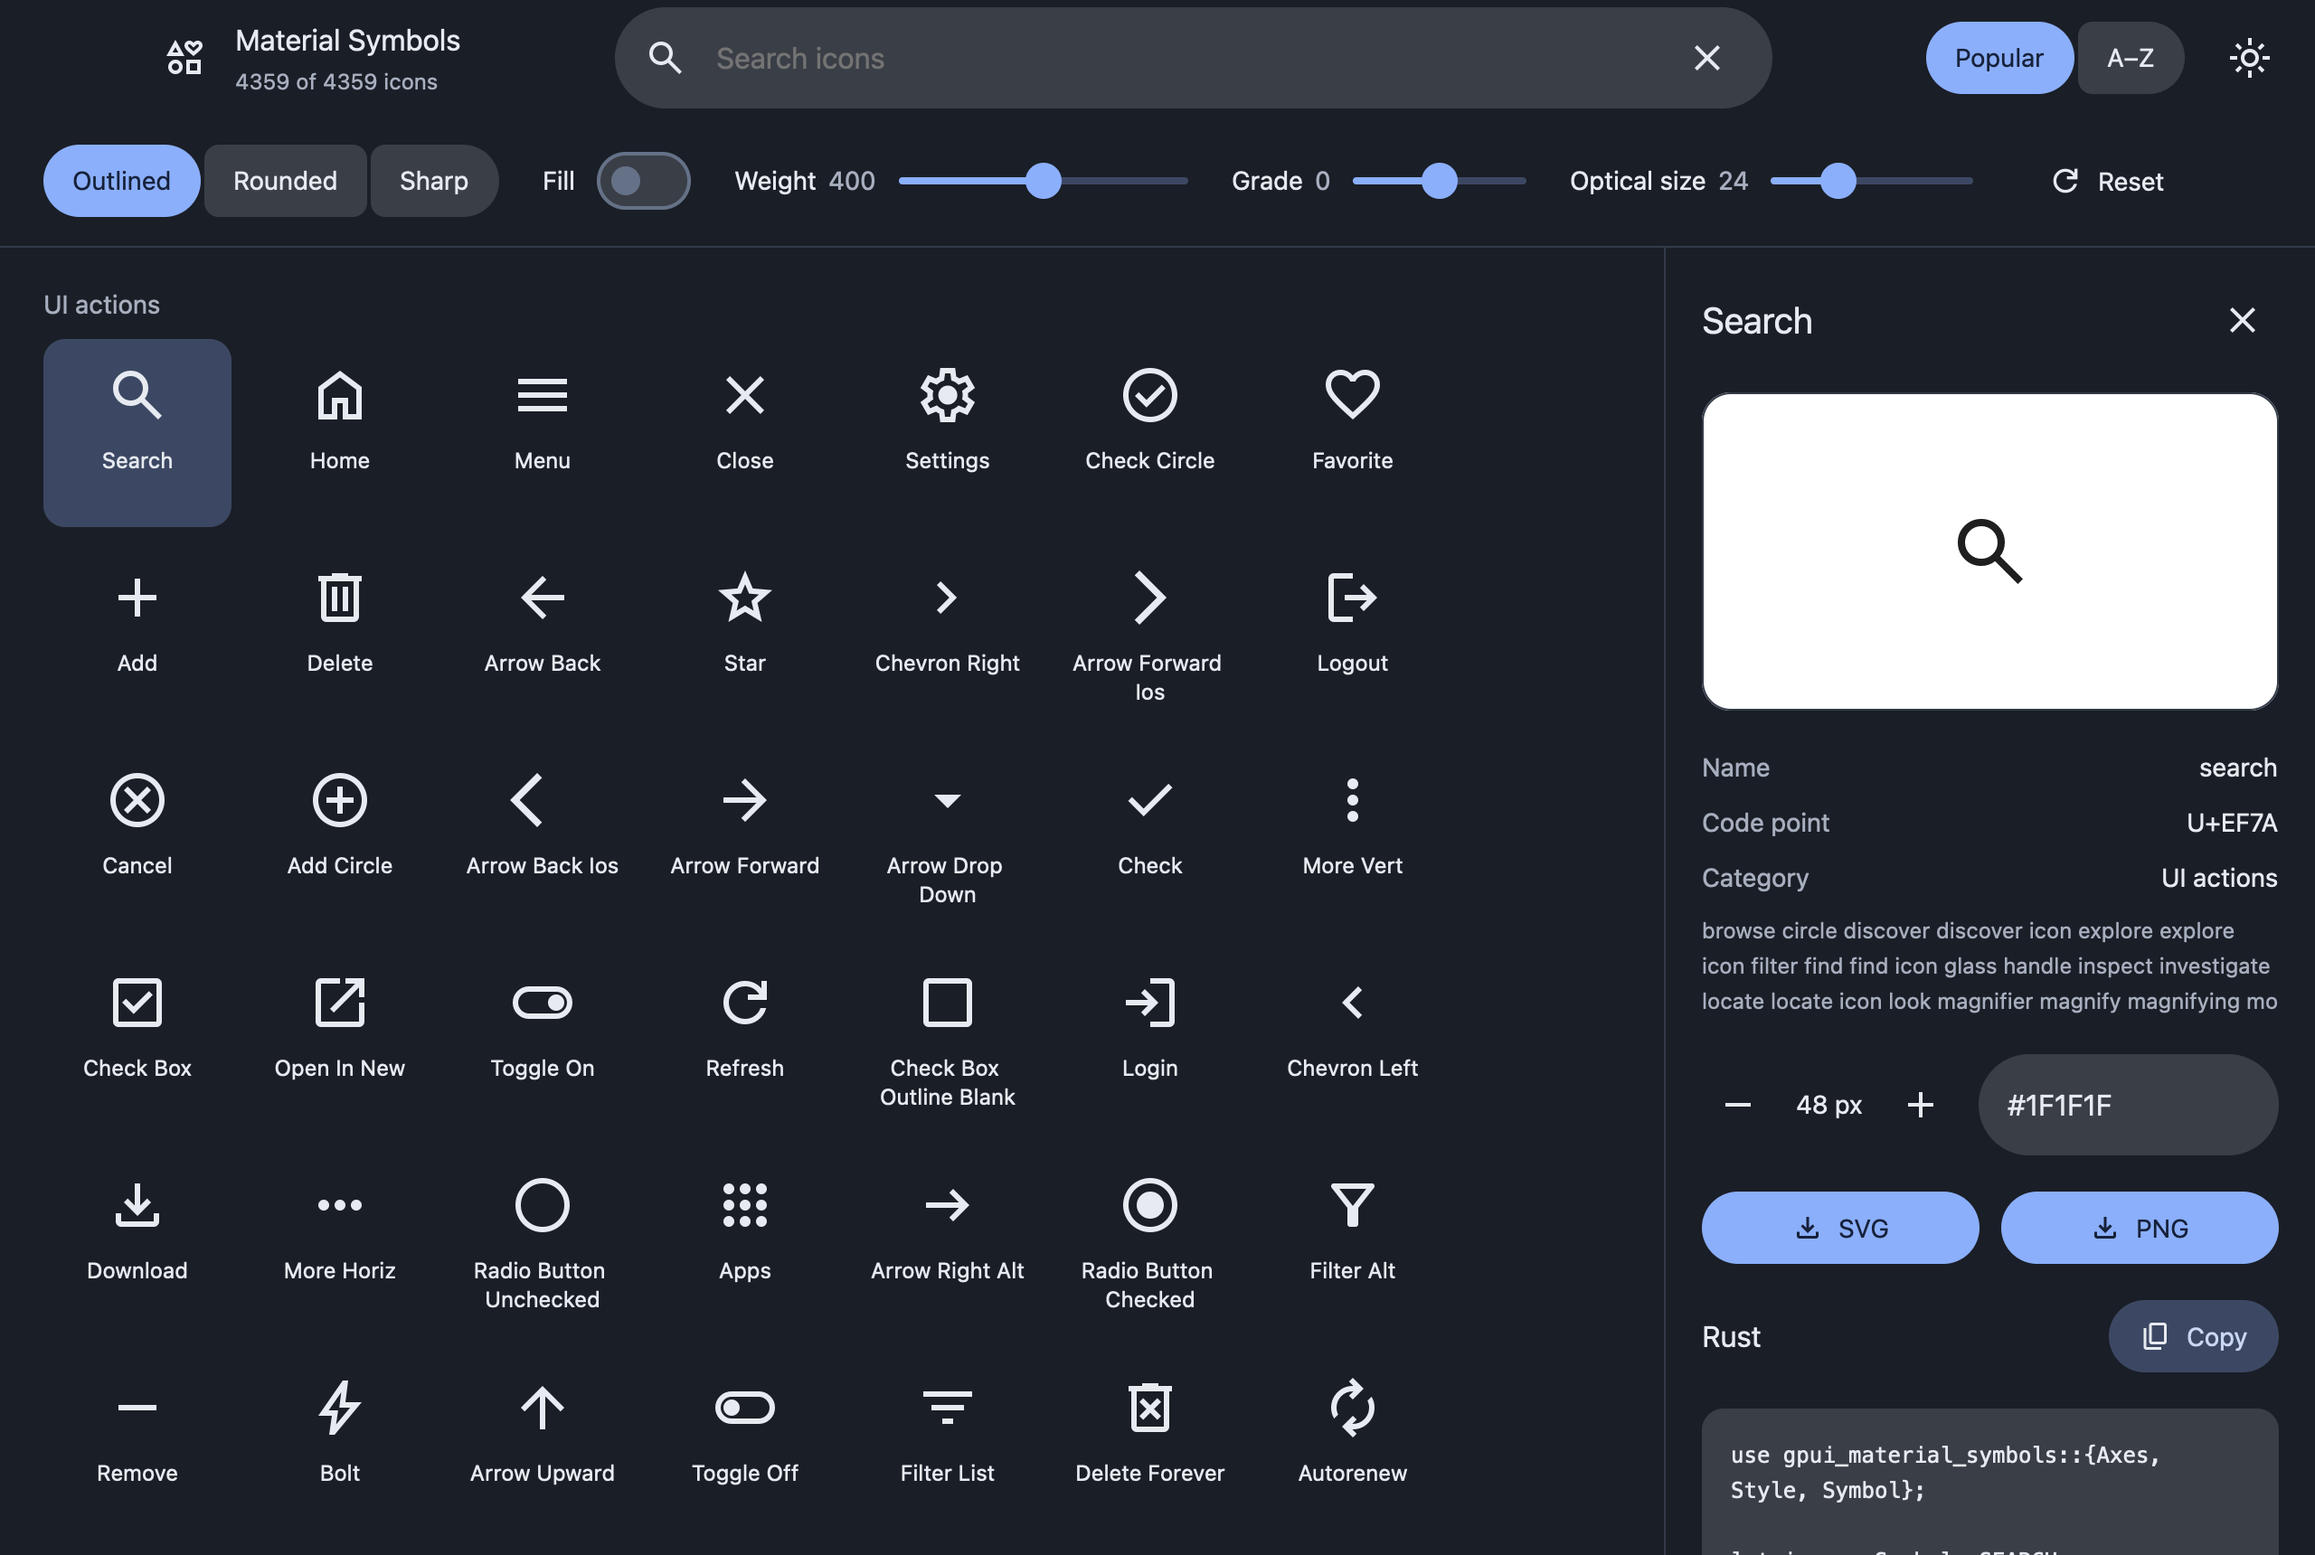
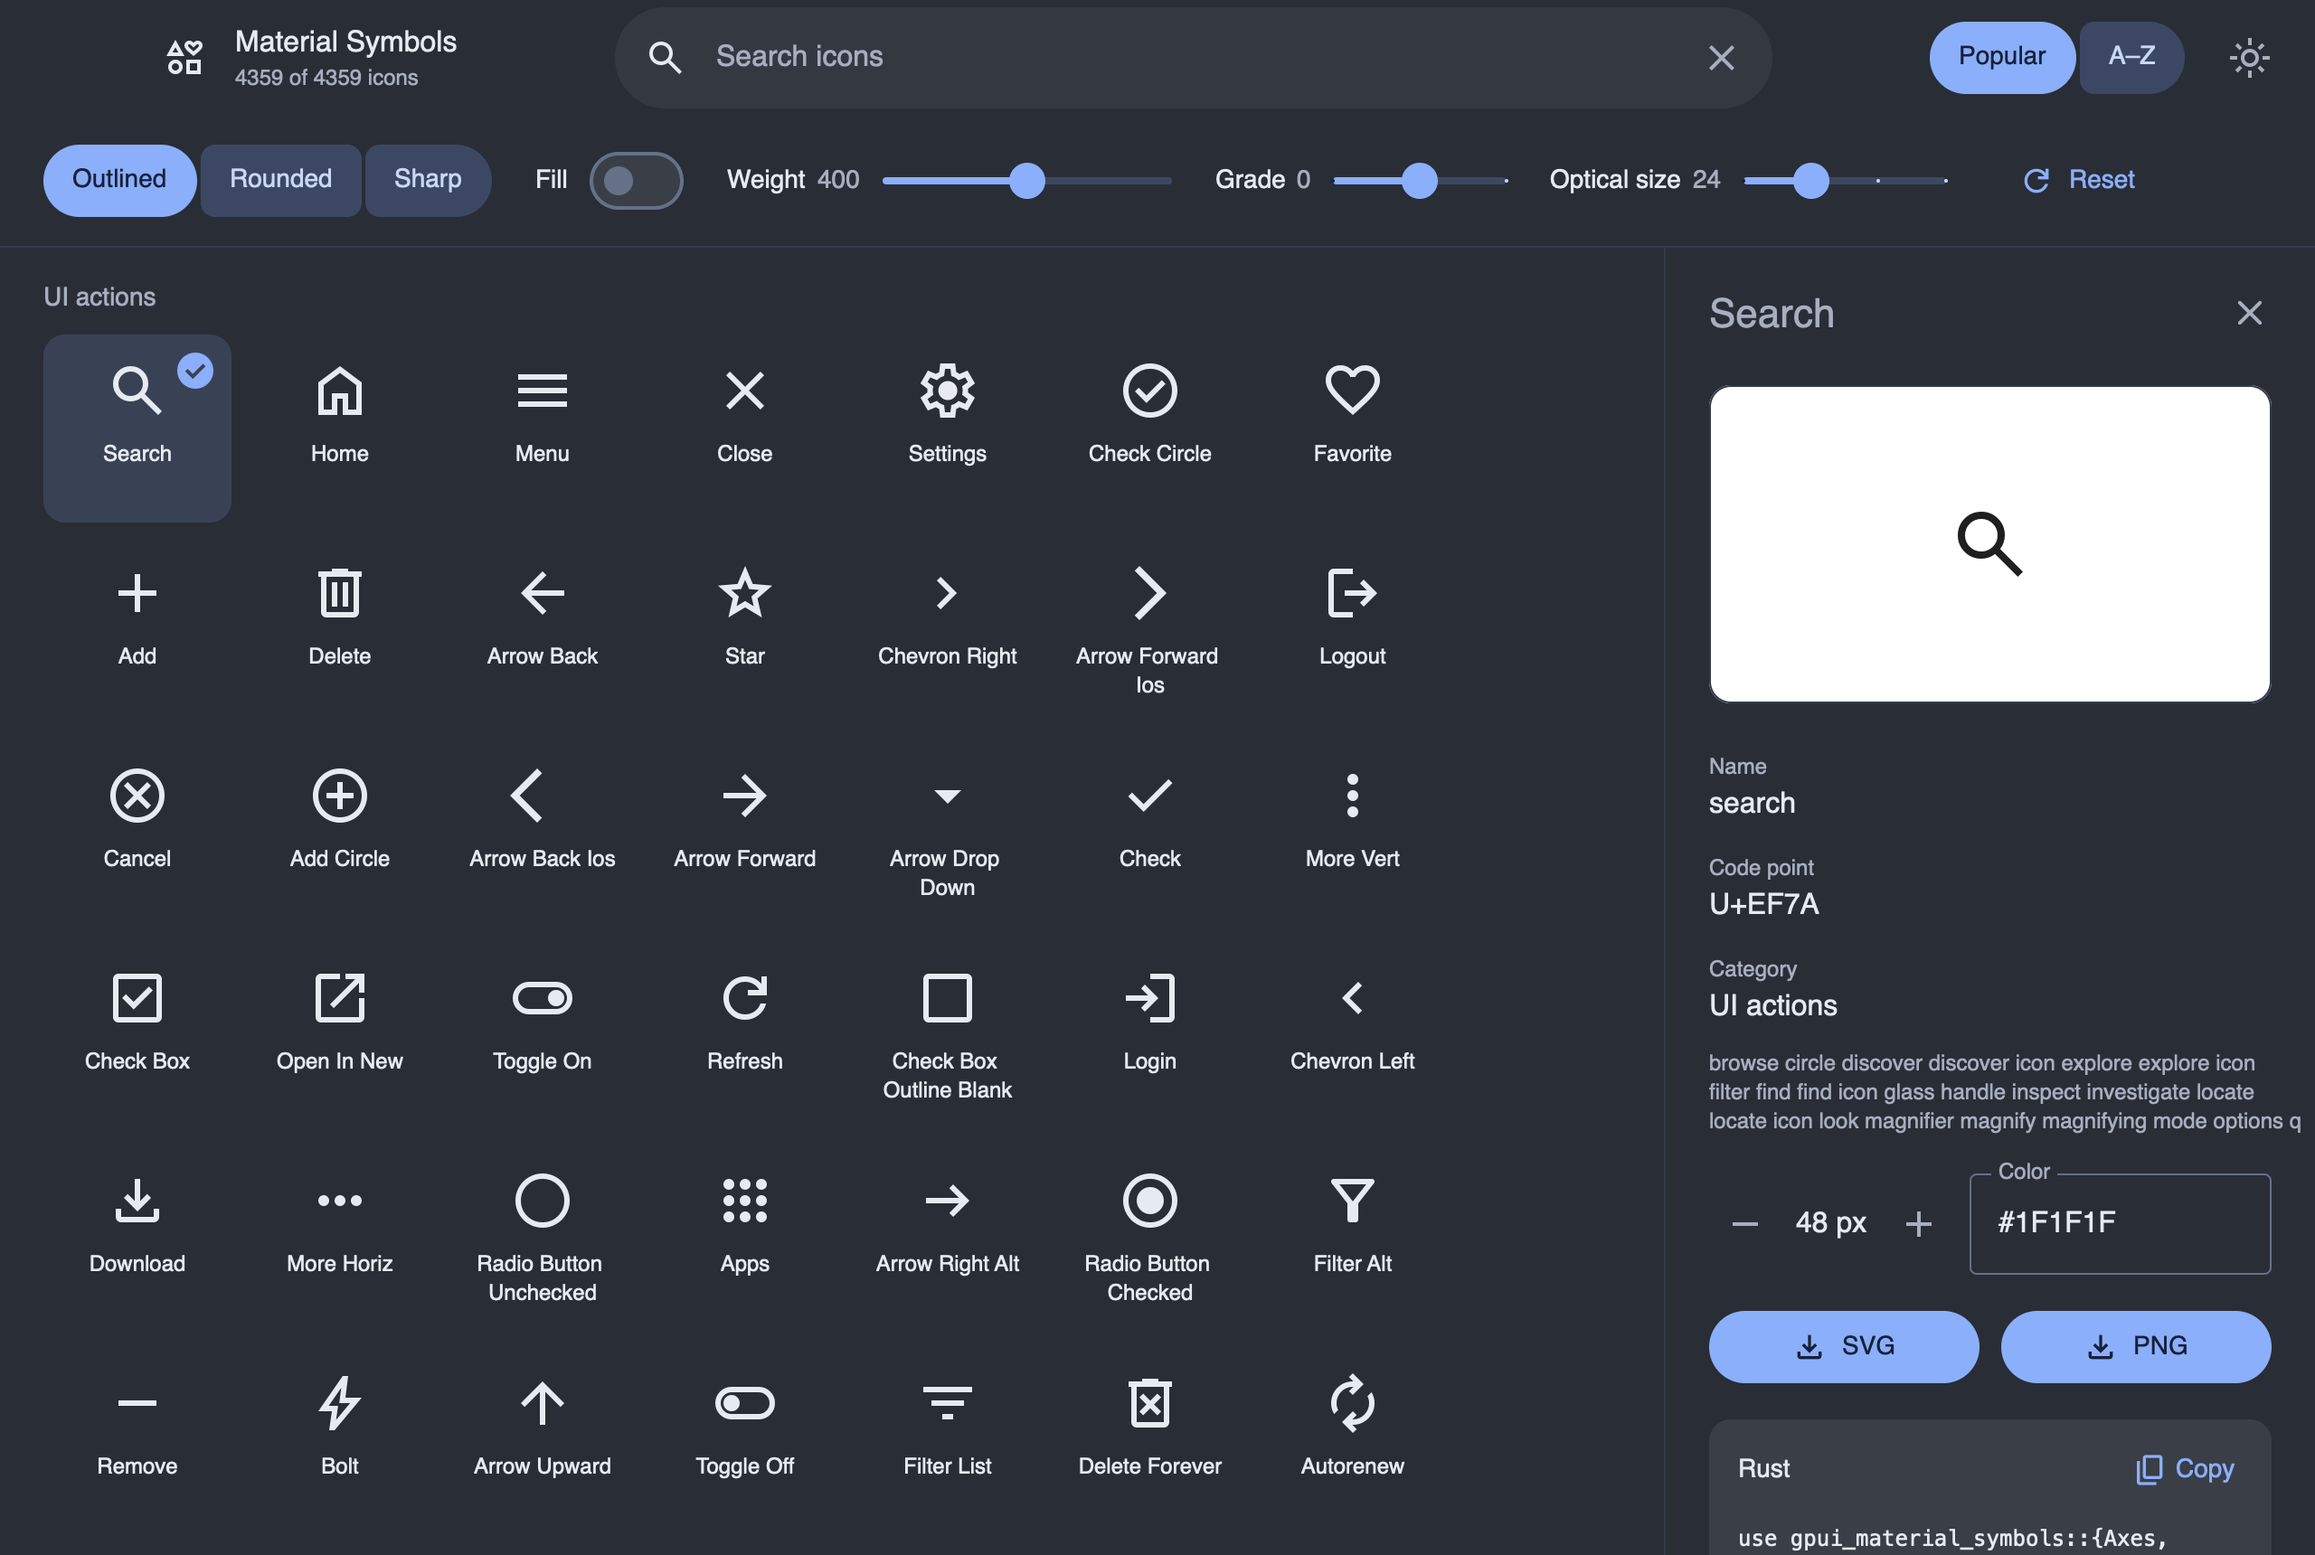
docs: list the browser's Material components and recapture it

diff --git a/docs/MATERIAL_SYMBOLS.md b/docs/MATERIAL_SYMBOLS.md
@@ -37,10 +37,32 @@ publish; the browser never substitutes a different variant.
 
 ## Components
 
-Every control comes from `gpui-kit-material`: the title bar and its caption
-buttons, search field, connected button groups (style, sort), switch, sliders,
-buttons, side sheet and snackbar. Behavior and accessibility come from GPUI
-Base.
+Every control comes from `gpui-kit-material`, started through Kit's
+`application`, `init` and `open_window` with Material's Component theme bridge:
+
+| Part | Component |
+| --- | --- |
+| App bar | `TitleBar` with `CaptionLabels`, `title_bar_control` |
+| Search | `SearchField` with an `IconButton` to clear it |
+| Style, sort | `ConnectedButtonGroup` |
+| Fill, weight, grade, optical size | `MaterialSwitch`, classic `MaterialSlider` (grade and optical size with stops and their values in the value indicator) |
+| Theme, compact controls, GitHub (web, compact) | `IconButton` (the controls button as a toggle) with a plain `MaterialTooltip` |
+| Toolbar edge | `MaterialDivider` |
+| Category headings | `list_subheader` |
+| Icon tiles | selectable `MaterialCard` (surface variant); the selected card shows the icon in the details sheet |
+| Details | standard `MaterialSideSheet` with its headline and close button |
+| Preview canvas, Rust code | `CardSurface` (outlined, on a fixed white canvas; filled) |
+| Name, code point, category | `ListItem` with an overline |
+| Export size, color | `IconButton`s, outlined `TextField` (in its error state while the color is not `#RRGGBB`) |
+| Export, Copy, Reset, GitHub | `material_button` with an icon |
+| Messages | `Snackbar`, placed and leaving with its exit motion |
+| Web downloads | indeterminate `LinearProgress` while a font or the SVG pack downloads |
+
+Control icons are Material Symbols in the Outlined style through Material's
+`Icon`, apart from the Rounded close icon Material's own sheet and snackbar
+draw; the grid's icons are drawn from the selected variant directly. Each
+tile is announced as one choice of the shown icons.
+Behavior and accessibility come from GPUI Base. Plain `div`s are layout only.
 
 ## Verification and captures
 
@@ -55,9 +77,11 @@ search states through GPUI's native headless renderer; on macOS this needs a
 Metal device. Headless captures show the window content only, without the
 system's traffic lights. Interaction tests dispatch real clicks and input:
 opening and closing details, choosing the A–Z sort, switching style and fill,
-toggling the theme, searching with no results and clearing the search. They
-also check that the open details sheet takes columns from the grid and that
-resizing keeps the scroll position; the kit tests its title bar and snackbar.
+toggling the theme, copying the Rust (clipboard and snackbar), searching with
+no results and clearing the search. They also check that the open details
+sheet takes columns from the grid, that resizing keeps the scroll position,
+and that the compact layout folds the controls behind the Tune button and
+covers the grid with the details; Material tests its components.
 Export tests decode the PNG and check its dimensions and pixel colors.
 
 ## Data

diff --git a/docs/web.md b/docs/web.md
@@ -5,13 +5,16 @@ WebAssembly with GPUI's web platform. It is live at
 <https://m3symbols.mizore.blog>.
 
 The `web` crate includes `browser/src/main.rs` unchanged apart
-from four web paths: the icon fonts download at runtime (below), the app bar
+from five web paths: the icon fonts download at runtime (below), the app bar
 links the GitHub repository, exports download through the page instead of a
-save dialog, and the app registers IBM Plex Sans (SIL OFL, `web/fonts/`), GPUI
-Web's default UI font. It renders through WebGPU; GPUI Web can fall back to
+save dialog, the app registers IBM Plex Sans (SIL OFL, `web/fonts/`), GPUI
+Web's default UI font, and it serves the Rounded close glyph of Material's
+sheet and snackbar close buttons from `browser/src/assets/chrome/` until the
+Rounded font arrives (a test checks it against the font). It renders through WebGPU; GPUI Web can fall back to
 WebGL 2, which this site has not been tested with.
 
-The Web package disables default features on both Symbols and Material. This
+The Web package disables default features on both Symbols and Material,
+selecting only Material's `full` component set. This
 keeps Material's default `embedded-symbols` feature from embedding the complete
 font/SVG pack and bypassing the browser's on-demand asset loader. Build the Web
 package explicitly with `-p gpui-material-symbols-web` (as `scripts/build-web.sh`
@@ -59,7 +62,7 @@ module carries the code and catalog but no icon fonts. Sizes as Brotli:
 
 | File | Chunks | Downloaded |
 | --- | --- | --- |
-| Module (19.9 MB uncompressed) | 10 | 3.7 MB, at start |
+| Module (30.2 MB uncompressed) | 15 | 5.3 MB, at start |
 | Outlined font | 6 | 4.1 MB, at start, in parallel with the module |
 | Rounded font | 8 | 5.6 MB, when Rounded is first chosen |
 | Sharp font | 5 | 3.6 MB, when Sharp is first chosen |
@@ -70,7 +73,8 @@ with Brotli, and lists them in a manifest written into `main.js`. The page
 downloads the module and the Outlined font together, with a progress bar.
 The Rust browser asks the page for any other file when an icon first needs
 it (`Icon::required_asset`), hands the bytes to `Asset::provide`, which
-checks them, and redraws.
+checks them, and redraws; an indeterminate Material linear progress
+indicator under the toolbar shows while such a download lasts.
 
 ### Interrupted downloads
 

diff --git a/browser/README.md b/browser/README.md
@@ -16,6 +16,11 @@ material_symbols` invocation is replaced by the package/bin command above.
 The native consumer and `../web` share `src/main.rs`; Web selects its own runtime
 asset-loading dependencies and does not enable this package's embedding feature.
 
+The browser is composed from `gpui-kit-material` components (the guide lists
+which component draws each part) and starts through Kit's `application`,
+`init` and `open_window`. Its own code lays those components out; it has no
+controls of its own.
+
 See [the browser guide](../docs/MATERIAL_SYMBOLS.md) and
 [maintenance](../docs/maintenance.md) for the shared catalog and validation entry
 points. The workspace root owns dependency patches; keep its Material, Symbols,
